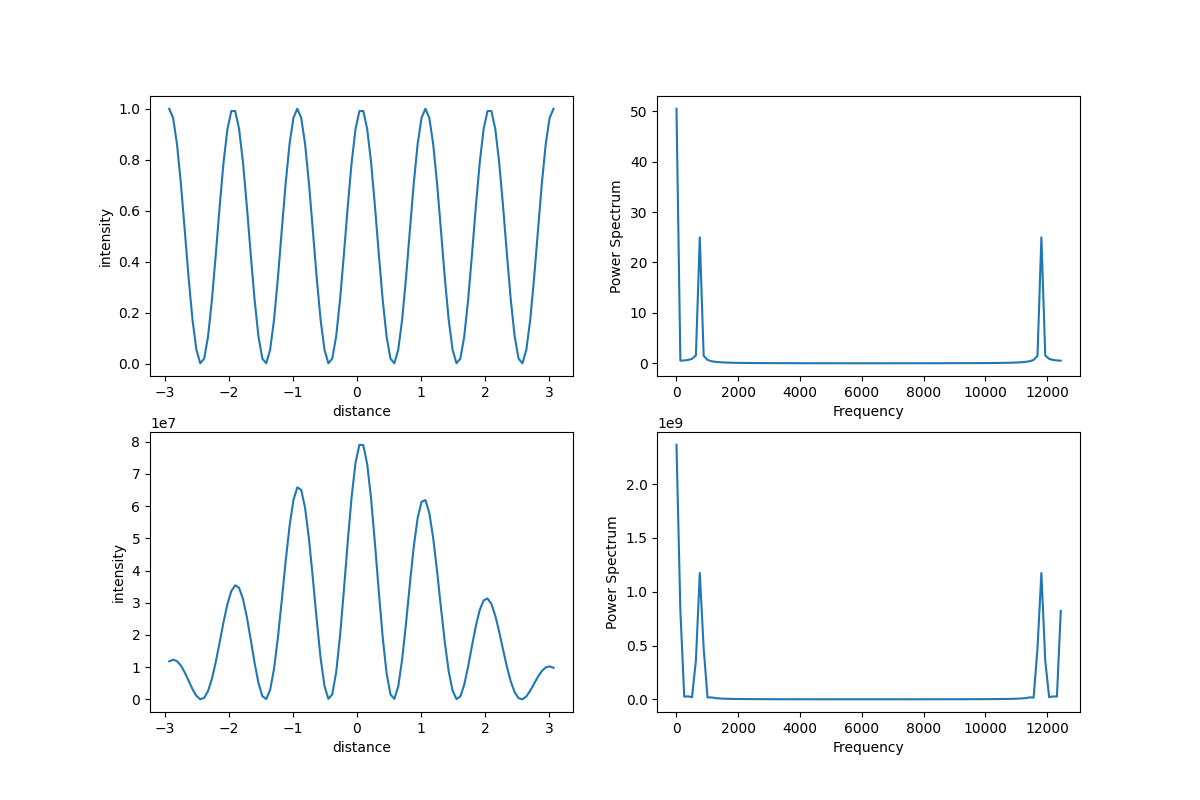
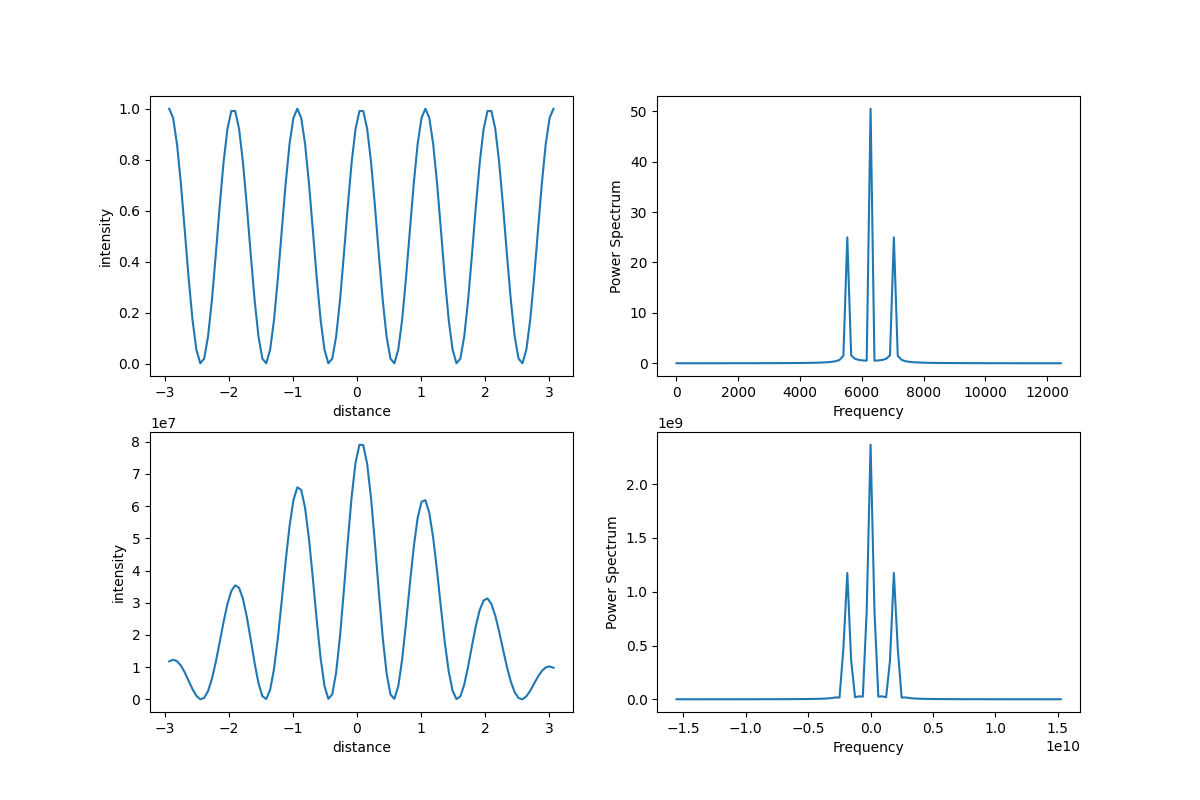
updated spectrum

diff --git a/visibility.py b/visibility.py
@@ -57,7 +57,8 @@ HeNe_intensity = (np.conjugate(HeNe_laser)*HeNe_laser)/2
 
 HeNe_intensity_max = np.max(HeNe_intensity)
 
-HeNe_spectrum = fft(HeNe_intensity)
+# Perform FFT to find the spectrum
+HeNe_spectrum = np.fft.fftshift(np.fft.fft(HeNe_intensity))
 
 #------------------------------------------DIODE 1 SEULE FREQUENCE-----------------------------------------------------------
 
@@ -65,7 +66,14 @@ l1 = 0.07
 diode_intensity = int_pulse_1D(largeur=largeur, t=0, z=0, k=2*np.pi/wavelength_0, position_delay=(distances))
 
 Z = diode_intensity
-diode_spectrum = fft(diode_intensity)
+# Calculate the time step from the time array
+dt = time[1] - time[0]
+
+# Perform FFT to find the spectrum
+diode_spectrum = np.fft.fftshift(np.fft.fft(Z))
+
+# Frequency axis in radians per second
+omega = 2 * np.pi * np.fft.fftshift(np.fft.fftfreq(len(time), dt))
 
 n = np.arange(N)
 sr=2000
@@ -87,7 +95,7 @@ axs[1,0].plot(l1-distances, Z)
 axs[1,0].set_xlabel('distance')
 axs[1,0].set_ylabel('intensity')
 
-axs[1,1].plot(freq_axis, np.abs(diode_spectrum))
+axs[1,1].plot(omega, np.abs(diode_spectrum))
 axs[1,1].set_xlabel('Frequency')
 axs[1,1].set_ylabel('Power Spectrum')
 
